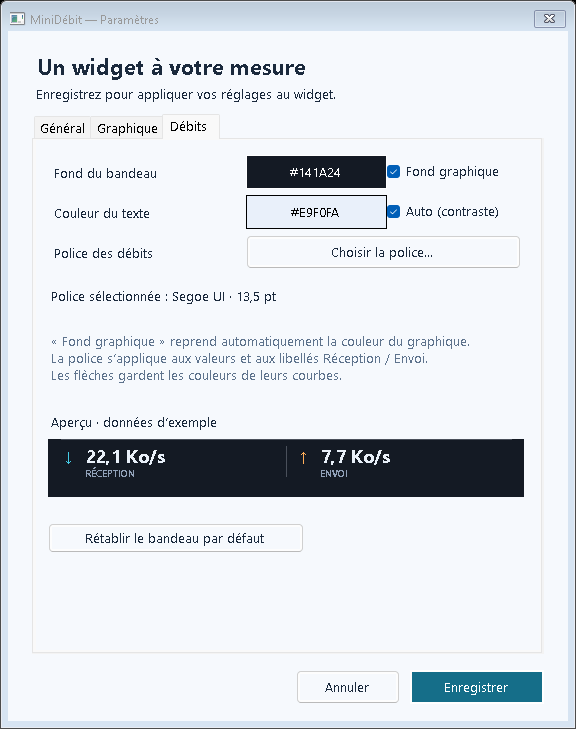
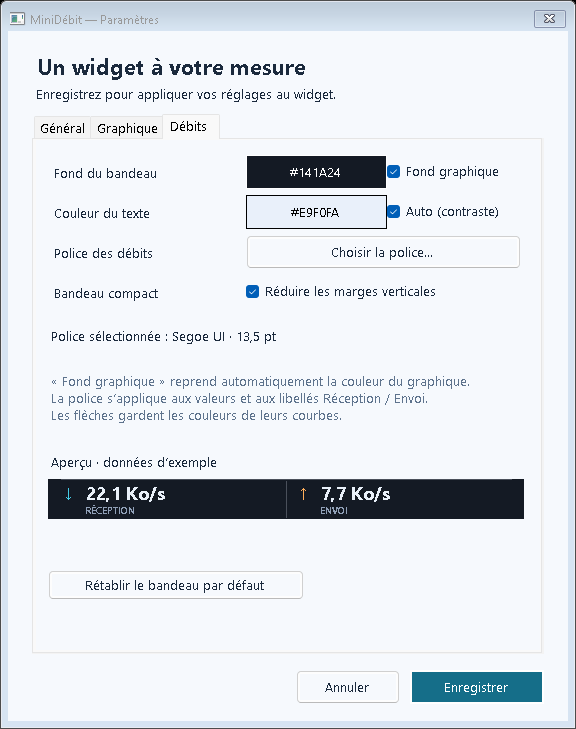
Bandeau compact des débits
Ajoute un mode compact pour le bandeau des débits avec réglage dans l’onglet Débits et mémorisation dans les paramètres. La hauteur du bandeau est recalculée selon la police et le mode compact, ce qui libère de l’espace pour le graphique. Les captures de diagnostic peuvent forcer ce mode avec --compact, et la documentation et les captures visuelles sont mises à jour.

diff --git a/Bandwidth/SettingsForm.cs b/Bandwidth/SettingsForm.cs
@@ -103,7 +103,7 @@ public sealed class SettingsForm : Form
         graph.Controls.Add(new Label { Text = "Aperçu · données d’exemple", Location = new Point(12, 328), AutoSize = true });
         var preview = new GraphPreview(ReadAppearance, () => theme.SelectedIndex == 0) { Location = new Point(12, 350), Size = new Size(476, 110) };
         graph.Controls.Add(preview);
-        var rateTable = Table(ratePage, 3, 40);
+        var rateTable = Table(ratePage, 4, 40);
         var rateBackground = new ColorField(settings.Rates.BackgroundColor, settings.Rates.Background(settings.Graph, settings.Dark), true, "Fond graphique");
         var rateText = new ColorField(settings.Rates.TextColor, settings.Rates.Text(settings.Graph, settings.Dark), true, "Auto (contraste)");
         var draftFont = new RateAppearance { FontFamily = settings.Rates.FontFamily, FontSizePixels = settings.Rates.FontSizePixels, Style = settings.Rates.Style };
@@ -111,18 +111,20 @@ public sealed class SettingsForm : Form
         Row(rateTable, 1, "Couleur du texte", rateText);
         var chooseFont = new Button { Text = "Choisir la police…", Dock = DockStyle.Fill };
         Row(rateTable, 2, "Police des débits", chooseFont);
-        var fontDescription = new Label { Location = new Point(12, 147), Size = new Size(476, 30) };
+        var compact = new CheckBox { Text = "Réduire les marges verticales", Checked = settings.Rates.Compact, Dock = DockStyle.Fill };
+        Row(rateTable, 3, "Bandeau compact", compact);
+        var fontDescription = new Label { Location = new Point(12, 187), Size = new Size(476, 30) };
         ratePage.Controls.Add(fontDescription);
-        ratePage.Controls.Add(new Label { Location = new Point(12, 192), Size = new Size(476, 62), ForeColor = Color.FromArgb(94, 115, 141),
+        ratePage.Controls.Add(new Label { Location = new Point(12, 232), Size = new Size(476, 62), ForeColor = Color.FromArgb(94, 115, 141),
             Text = "« Fond graphique » reprend automatiquement la couleur du graphique.\nLa police s’applique aux valeurs et aux libellés Réception / Envoi.\nLes flèches gardent les couleurs de leurs courbes." });
         RateAppearance ReadRates() => new()
         {
             BackgroundColor = rateBackground.Value, TextColor = rateText.Value,
-            FontFamily = draftFont.FontFamily, FontSizePixels = draftFont.FontSizePixels, Style = draftFont.Style
+            FontFamily = draftFont.FontFamily, FontSizePixels = draftFont.FontSizePixels, Style = draftFont.Style, Compact = compact.Checked
         };
-        ratePage.Controls.Add(new Label { Text = "Aperçu · données d’exemple", Location = new Point(12, 273), AutoSize = true });
+        ratePage.Controls.Add(new Label { Text = "Aperçu · données d’exemple", Location = new Point(12, 313), AutoSize = true });
         var ratePreview = new RatePreview(ReadRates, ReadAppearance, () => theme.SelectedIndex == 0)
-            { Location = new Point(12, 299), Size = new Size(476, 58) };
+            { Location = new Point(12, 339), Size = new Size(476, 48) };
         ratePage.Controls.Add(ratePreview);
         void RefreshRates()
         {
@@ -131,10 +133,15 @@ public sealed class SettingsForm : Form
             rateBackground.UpdateAutomaticColor(graphStyle.Background(dark));
             rateText.UpdateAutomaticColor(ReadRates().Text(graphStyle, dark));
             fontDescription.Text = $"Police sélectionnée : {draftFont.FontFamily} · {draftFont.FontSizePixels * 72 / 96:0.#} pt";
+            using var numbers = draftFont.CreateFont();
+            using var captions = draftFont.CreateFont(true);
+            using var arrows = new Font("Segoe UI", 18, FontStyle.Bold, GraphicsUnit.Pixel);
+            ratePreview.Height = (int)Math.Ceiling(RateRenderer.Measure(numbers, captions, arrows, compact.Checked).Height * ratePreview.DeviceDpi / 96f);
             ratePreview.Invalidate();
         }
         rateBackground.Changed += (_, _) => RefreshRates();
         rateText.Changed += (_, _) => RefreshRates();
+        compact.CheckedChanged += (_, _) => RefreshRates();
         chooseFont.Click += (_, _) =>
         {
             using var currentFont = draftFont.CreateFont();
@@ -146,11 +153,12 @@ public sealed class SettingsForm : Form
             draftFont.Normalize();
             RefreshRates();
         };
-        var resetRates = new Button { Text = "Rétablir le bandeau par défaut", Location = new Point(12, 383), Size = new Size(256, 30) };
+        var resetRates = new Button { Text = "Rétablir le bandeau par défaut", Location = new Point(12, 430), Size = new Size(256, 30) };
         ratePage.Controls.Add(resetRates);
         resetRates.Click += (_, _) =>
         {
             draftFont = new RateAppearance();
+            compact.Checked = false;
             rateBackground.Value = ""; rateText.Value = "";
             RefreshRates();
         };

diff --git a/Bandwidth/RateAppearance.cs b/Bandwidth/RateAppearance.cs
@@ -8,6 +8,7 @@ public sealed class RateAppearance
     public string FontFamily { get; set; } = "Segoe UI";
     public double FontSizePixels { get; set; } = 18;
     public int Style { get; set; } = (int)FontStyle.Bold;
+    public bool Compact { get; set; }
 
     public void Normalize()
     {
@@ -43,6 +44,20 @@ public sealed class RateAppearance
 
 internal static class RateRenderer
 {
+    internal readonly record struct Layout(float Height, float NumberTop, float NumberHeight, float CaptionTop, float CaptionHeight);
+    public static Layout Measure(Font numbers, Font captions, Font arrows, bool compact)
+    {
+        // Measure at 96 DPI because the drawing surface scales these logical pixels.
+        float numberHeight = (float)Math.Ceiling(Math.Max(numbers.GetHeight(96), arrows.GetHeight(96)));
+        float captionHeight = (float)Math.Ceiling(captions.GetHeight(96));
+        if (compact)
+            return new(numberHeight + captionHeight + 4, 2, numberHeight, 2 + numberHeight, captionHeight);
+        numberHeight = Math.Max(27, numberHeight);
+        captionHeight = Math.Max(13, captionHeight);
+        float captionTop = Math.Max(28, 4 + numbers.GetHeight(96));
+        return new(Math.Max(48, captionTop + captionHeight + 7), 4, numberHeight, captionTop, captionHeight);
+    }
+
     public static void Draw(Graphics g, RectangleF bounds, string down, string up, RateAppearance rates,
         GraphAppearance graph, bool dark, Font rateFont, Font labelFont, Font arrowFont)
     {
@@ -51,15 +66,16 @@ internal static class RateRenderer
         var text = rates.Text(graph, dark);
         var caption = rates.Text(graph, dark, true);
         float x = bounds.Left, y = bounds.Top, w = bounds.Width;
+        var layout = Measure(rateFont, labelFont, arrowFont, rates.Compact);
         using var divider = new Pen(Color.FromArgb(65, text));
         g.DrawLine(divider, x + 13, y, x + w - 13, y);
-        g.DrawLine(divider, x + w / 2, y + 7, x + w / 2, y + 37);
-        Text(g, "↓", arrowFont, graph.Reception, new RectangleF(x + 13, y + 5, 20, 27));
-        Text(g, down, rateFont, text, new RectangleF(x + 35, y + 4, w / 2 - 45, 27));
-        Text(g, "RÉCEPTION", labelFont, caption, new RectangleF(x + 35, y + 28, w / 2 - 45, 13));
-        Text(g, "↑", arrowFont, graph.Sending, new RectangleF(x + w / 2 + 10, y + 5, 20, 27));
-        Text(g, up, rateFont, text, new RectangleF(x + w / 2 + 32, y + 4, w / 2 - 42, 27));
-        Text(g, "ENVOI", labelFont, caption, new RectangleF(x + w / 2 + 32, y + 28, w / 2 - 42, 13));
+        g.DrawLine(divider, x + w / 2, y + (rates.Compact ? 2 : 7), x + w / 2, y + layout.Height - (rates.Compact ? 2 : 11));
+        Text(g, "↓", arrowFont, graph.Reception, new RectangleF(x + 13, y + layout.NumberTop, 20, layout.NumberHeight));
+        Text(g, down, rateFont, text, new RectangleF(x + 35, y + layout.NumberTop, w / 2 - 45, layout.NumberHeight));
+        Text(g, "RÉCEPTION", labelFont, caption, new RectangleF(x + 35, y + layout.CaptionTop, w / 2 - 45, layout.CaptionHeight));
+        Text(g, "↑", arrowFont, graph.Sending, new RectangleF(x + w / 2 + 10, y + layout.NumberTop, 20, layout.NumberHeight));
+        Text(g, up, rateFont, text, new RectangleF(x + w / 2 + 32, y + layout.NumberTop, w / 2 - 42, layout.NumberHeight));
+        Text(g, "ENVOI", labelFont, caption, new RectangleF(x + w / 2 + 32, y + layout.CaptionTop, w / 2 - 42, layout.CaptionHeight));
     }
 
     private static void Text(Graphics g, string value, Font font, Color color, RectangleF bounds)

diff --git a/Bandwidth/Widget.cs b/Bandwidth/Widget.cs
@@ -181,7 +181,8 @@ public sealed class Widget : Form
             DrawButton(g, 2, "×", w - 29);
         }
         float chartTop = HeaderVisible ? 65 : 13;
-        var chart = new RectangleF(13, chartTop, w - 26, h - chartTop - 57);
+        float rateHeight = RateRenderer.Measure(rateFont, labelFont, arrowFont, settings.Rates.Compact).Height;
+        var chart = new RectangleF(13, chartTop, w - 26, h - chartTop - rateHeight - 9);
         if (HeaderVisible)
         {
             DrawText(g, Units.Rate(scale, settings.Bits), smallFont, Muted, new RectangleF(13, chartTop - 16, 160, 14));
@@ -190,7 +191,7 @@ public sealed class Widget : Form
         GraphRenderer.Backdrop(g, chart, settings.Graph, settings.Dark);
         DrawSeries(g, chart, false, UpColor);
         DrawSeries(g, chart, true, DownColor);
-        RateRenderer.Draw(g, new RectangleF(1, h - 49, w - 2, 48), Units.Rate(current.Down, settings.Bits),
+        RateRenderer.Draw(g, new RectangleF(1, h - rateHeight - 1, w - 2, rateHeight), Units.Rate(current.Down, settings.Bits),
             Units.Rate(current.Up, settings.Bits), settings.Rates, settings.Graph, settings.Dark, rateFont, labelFont, arrowFont);
         using var grip = new Pen(Muted, 1);
         g.DrawLine(grip, w - 8, h - 4, w - 4, h - 8);

diff --git a/Bandwidth/Program.cs b/Bandwidth/Program.cs
@@ -17,7 +17,9 @@ internal static class Program
         var report = Argument(args, "--smoke-report");
         if (captureSettings is not null || captureGraphSettings is not null || captureRateSettings is not null)
         {
-            using var dialog = new SettingsForm(new Settings(), SystemIcons.Application);
+            var captureConfiguration = new Settings();
+            captureConfiguration.Rates.Compact = args.Contains("--compact");
+            using var dialog = new SettingsForm(captureConfiguration, SystemIcons.Application);
             if (captureGraphSettings is not null) dialog.SelectGraphTab();
             if (captureRateSettings is not null) dialog.SelectRatesTab();
             var settingsCapturePath = captureRateSettings ?? captureGraphSettings ?? captureSettings!;
@@ -43,6 +45,7 @@ internal static class Program
         }
         bool diagnostic = capture is not null || captureHover is not null || report is not null;
         var settings = diagnostic ? new Settings { AlwaysOnTop = false } : Settings.Load();
+        if (diagnostic) settings.Rates.Compact = args.Contains("--compact");
         using var window = new Widget(settings, diagnostic);
         if (diagnostic)
         {

diff --git a/README.md b/README.md
@@ -43,6 +43,8 @@ L’onglet **Débits** configure le bandeau inférieur : couleur du fond, police
 
 ![Apparence du bandeau des débits](docs/settings-rates.png)
 
+Dans **Débits → Bandeau compact**, cocher **Réduire les marges verticales** pour resserrer le bandeau, en conservant les valeurs et les libellés. Sa hauteur s’adapte à la police choisie ; l’espace libéré revient au graphique. L’aperçu reflète cette hauteur et l’option est mémorisée après enregistrement. Le mode standard reste sélectionné par défaut.
+
 | Réglage | Valeurs |
 |---|---|
 | Carte réseau | Automatique, carte précise ou cumul des cartes actives |
@@ -97,6 +99,7 @@ Le diagnostic ferme l’application après 32 secondes. Il mesure la mémoire et
 Une capture de la fenêtre des paramètres peut être produite avec `--capture-settings chemin.png`.
 L’onglet Graphique peut être capturé avec `--capture-graph-settings chemin.png`.
 L’onglet Débits peut être capturé avec `--capture-rate-settings chemin.png`.
+Ajouter `--compact` à un diagnostic pour capturer le widget ou l’onglet Débits en mode compact sans modifier les paramètres utilisateur.
 Ajouter `--capture-hover chemin.png` au diagnostic pour capturer aussi le bandeau affiché au survol, sur le même relevé de trafic.
 
 Les compteurs sont lus avec l’API Windows exposée par [.NET NetworkInterface.GetIPStatistics](https://learn.microsoft.com/en-us/dotnet/api/system.net.networkinformation.networkinterface.getipstatistics). Le temps entre relevés est mesuré par une horloge monotone ; l’ajout, le retrait ou la remise à zéro des compteurs d’une carte ne produit pas de pic artificiel.
